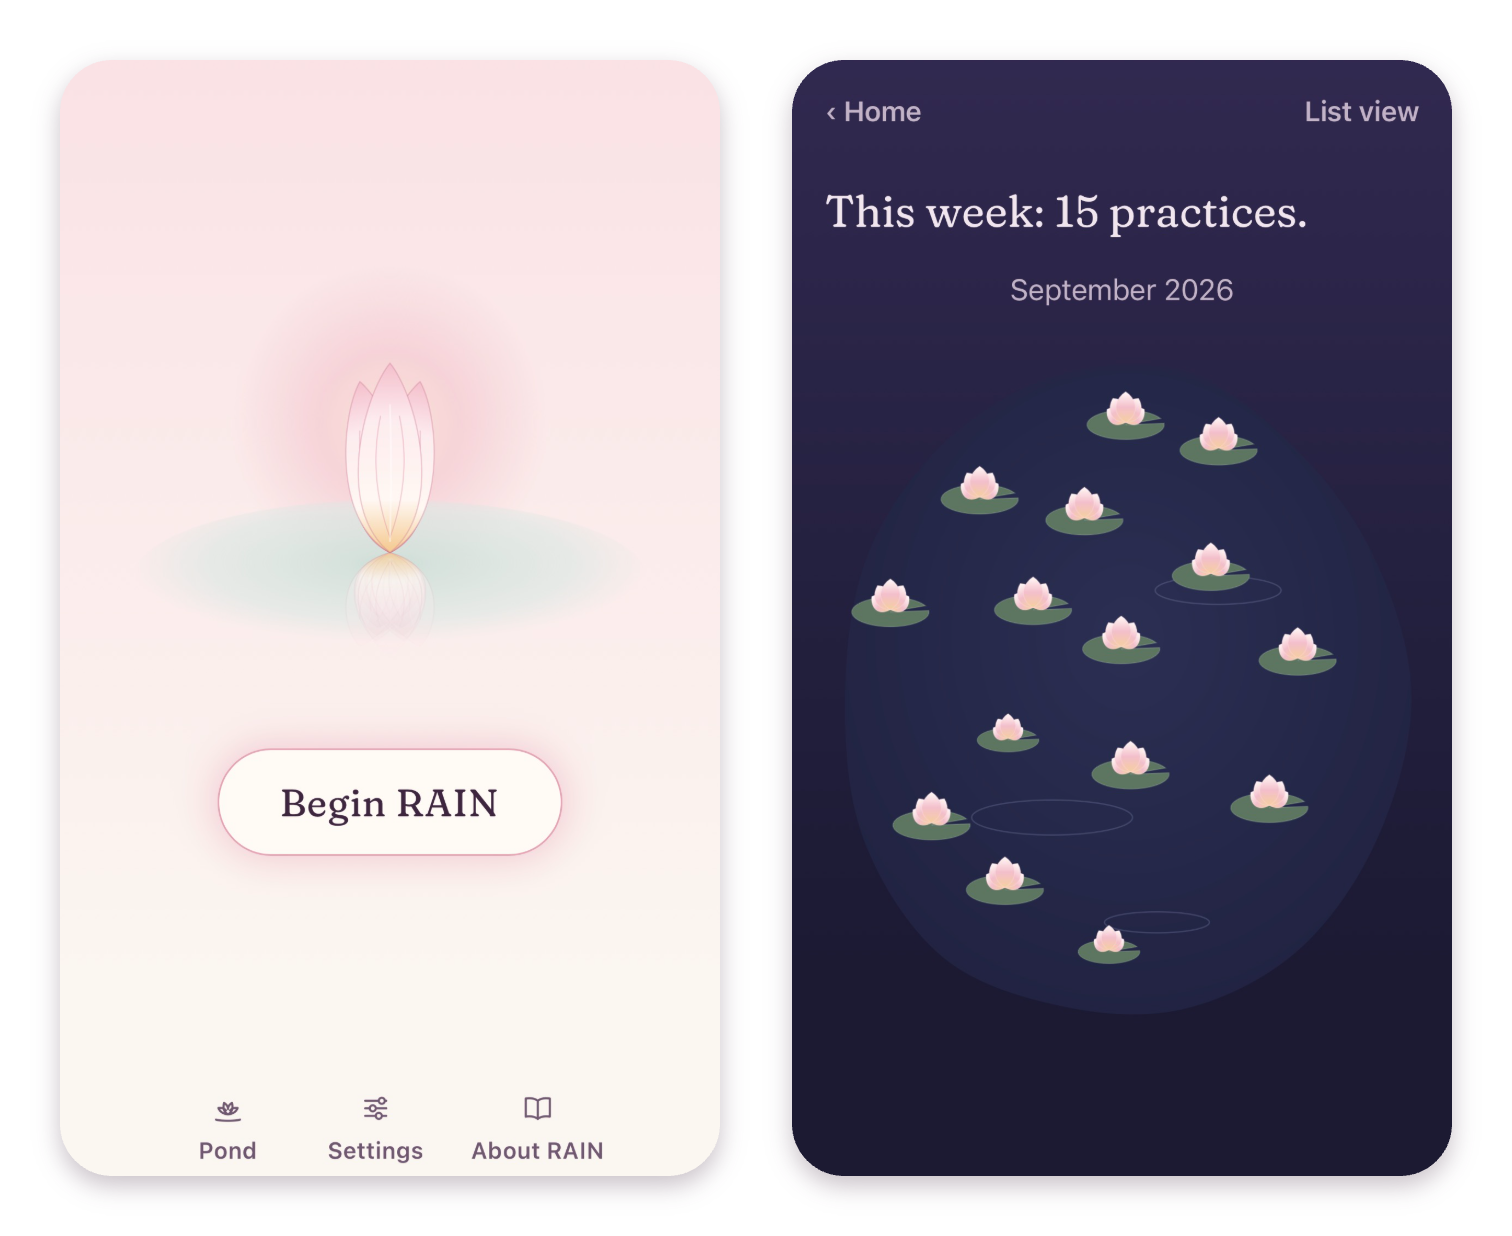
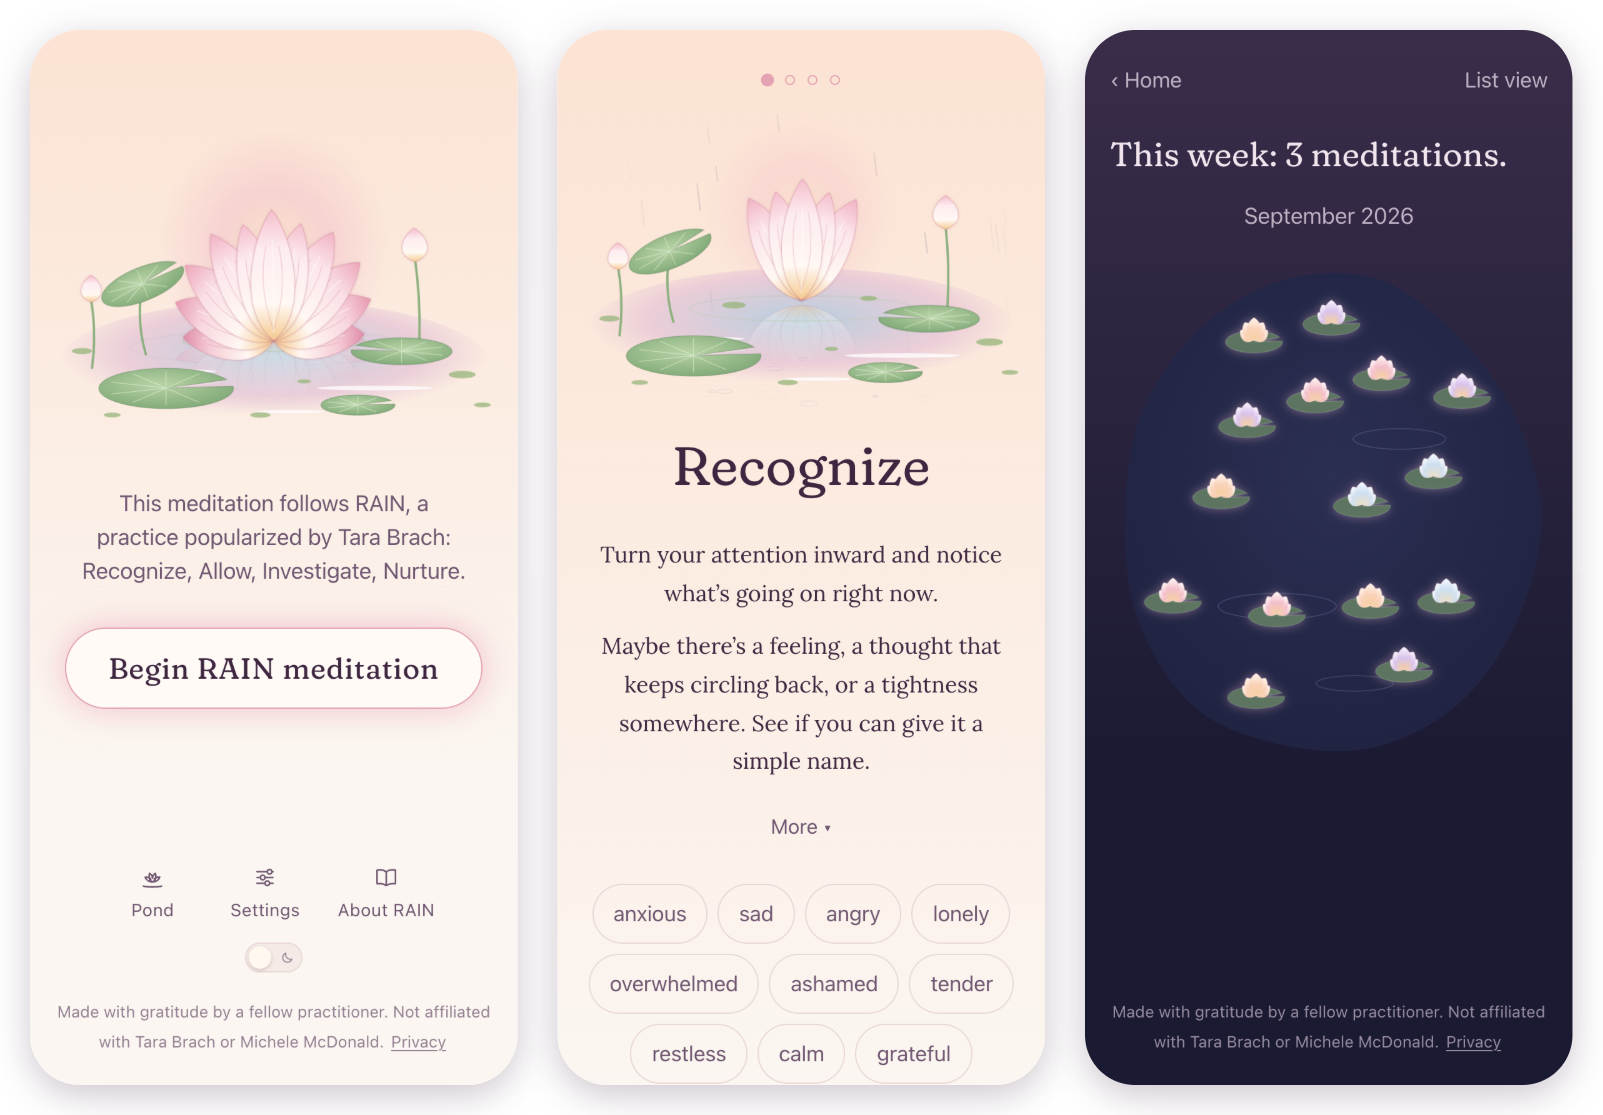
project update

diff --git a/index.html b/index.html
@@ -71,9 +71,9 @@
     <section class="tab-panel" id="projects-panel" role="tabpanel" aria-labelledby="projects-tab" tabindex="0" hidden>
       <h2>Projects</h2>
       <article class="project">
-        <img class="project-image" src="img/after-rain.png" width="756" height="618" loading="lazy" alt="Two screens from After Rain: a lotus bud rising from still water above a Begin RAIN button, and a night-time pond of small lotuses, one for each practice">
+        <img class="project-image" src="img/after-rain.png" width="802" height="558" loading="lazy" alt="Three screens from After Rain: a pink lotus in bloom on a pond with lily pads and buds above a Begin RAIN meditation button; the Recognize step, with the lotus beginning to open, gentle prompts and feelings to choose from; and a night-time pond of small lotuses, one for each meditation">
         <div class="project-body">
-          <h3 class="project-name">After Rain</h3>
+          <h3 class="project-name">After Rain: Meditation App</h3>
           <p class="project-caption">A gentle iOS app for practicing RAIN meditation.</p>
           <p class="project-caption">I've been meditating for a long time, but I've seen the most progress with RAIN (Recognize, Allow, Investigate, Nurture), a practice created by Michele McDonald and shared widely by Tara Brach. I built the After Rain app as a free tool for myself and anyone else who finds RAIN helpful and wants a more consistent practice. As you move through the four steps, a lotus slowly blooms in soft, calming colors, and your progress is tracked over time.</p>
           <p class="project-tech">React · TypeScript · Vite · Capacitor · IndexedDB · Web&nbsp;Audio</p>
